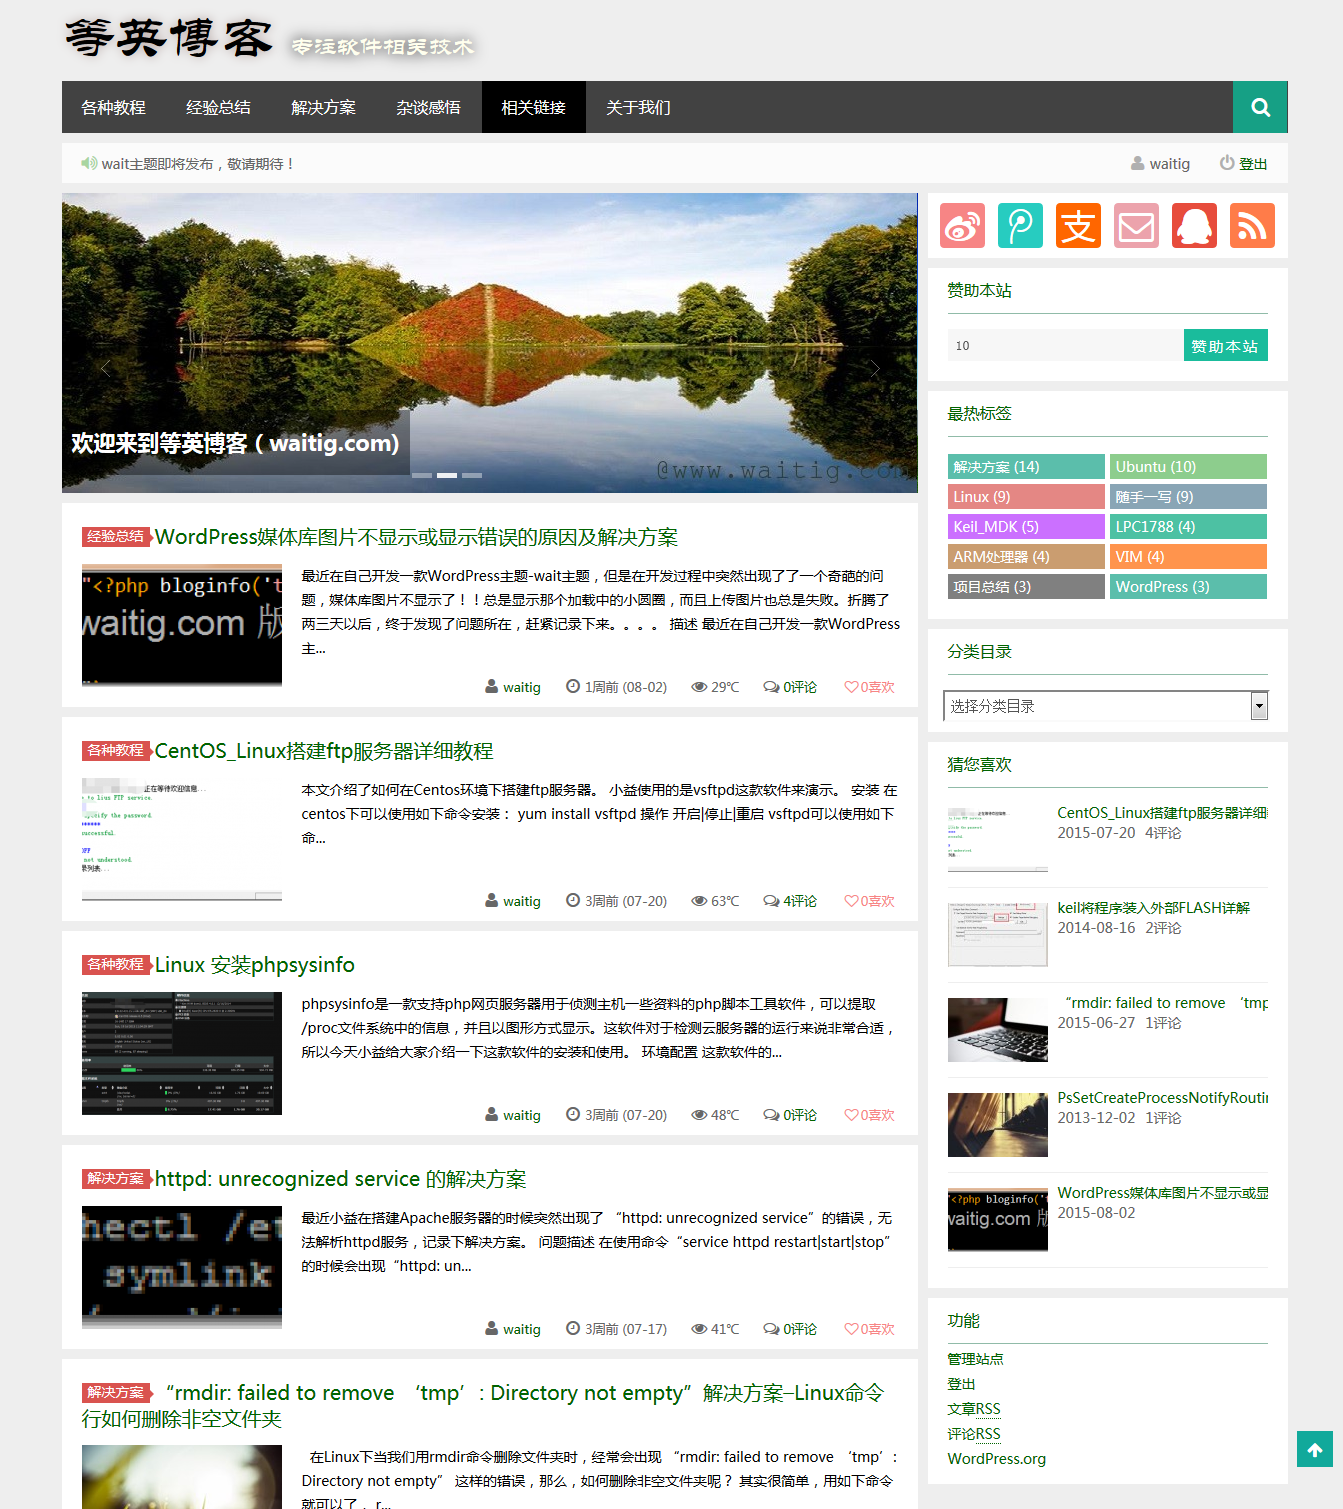
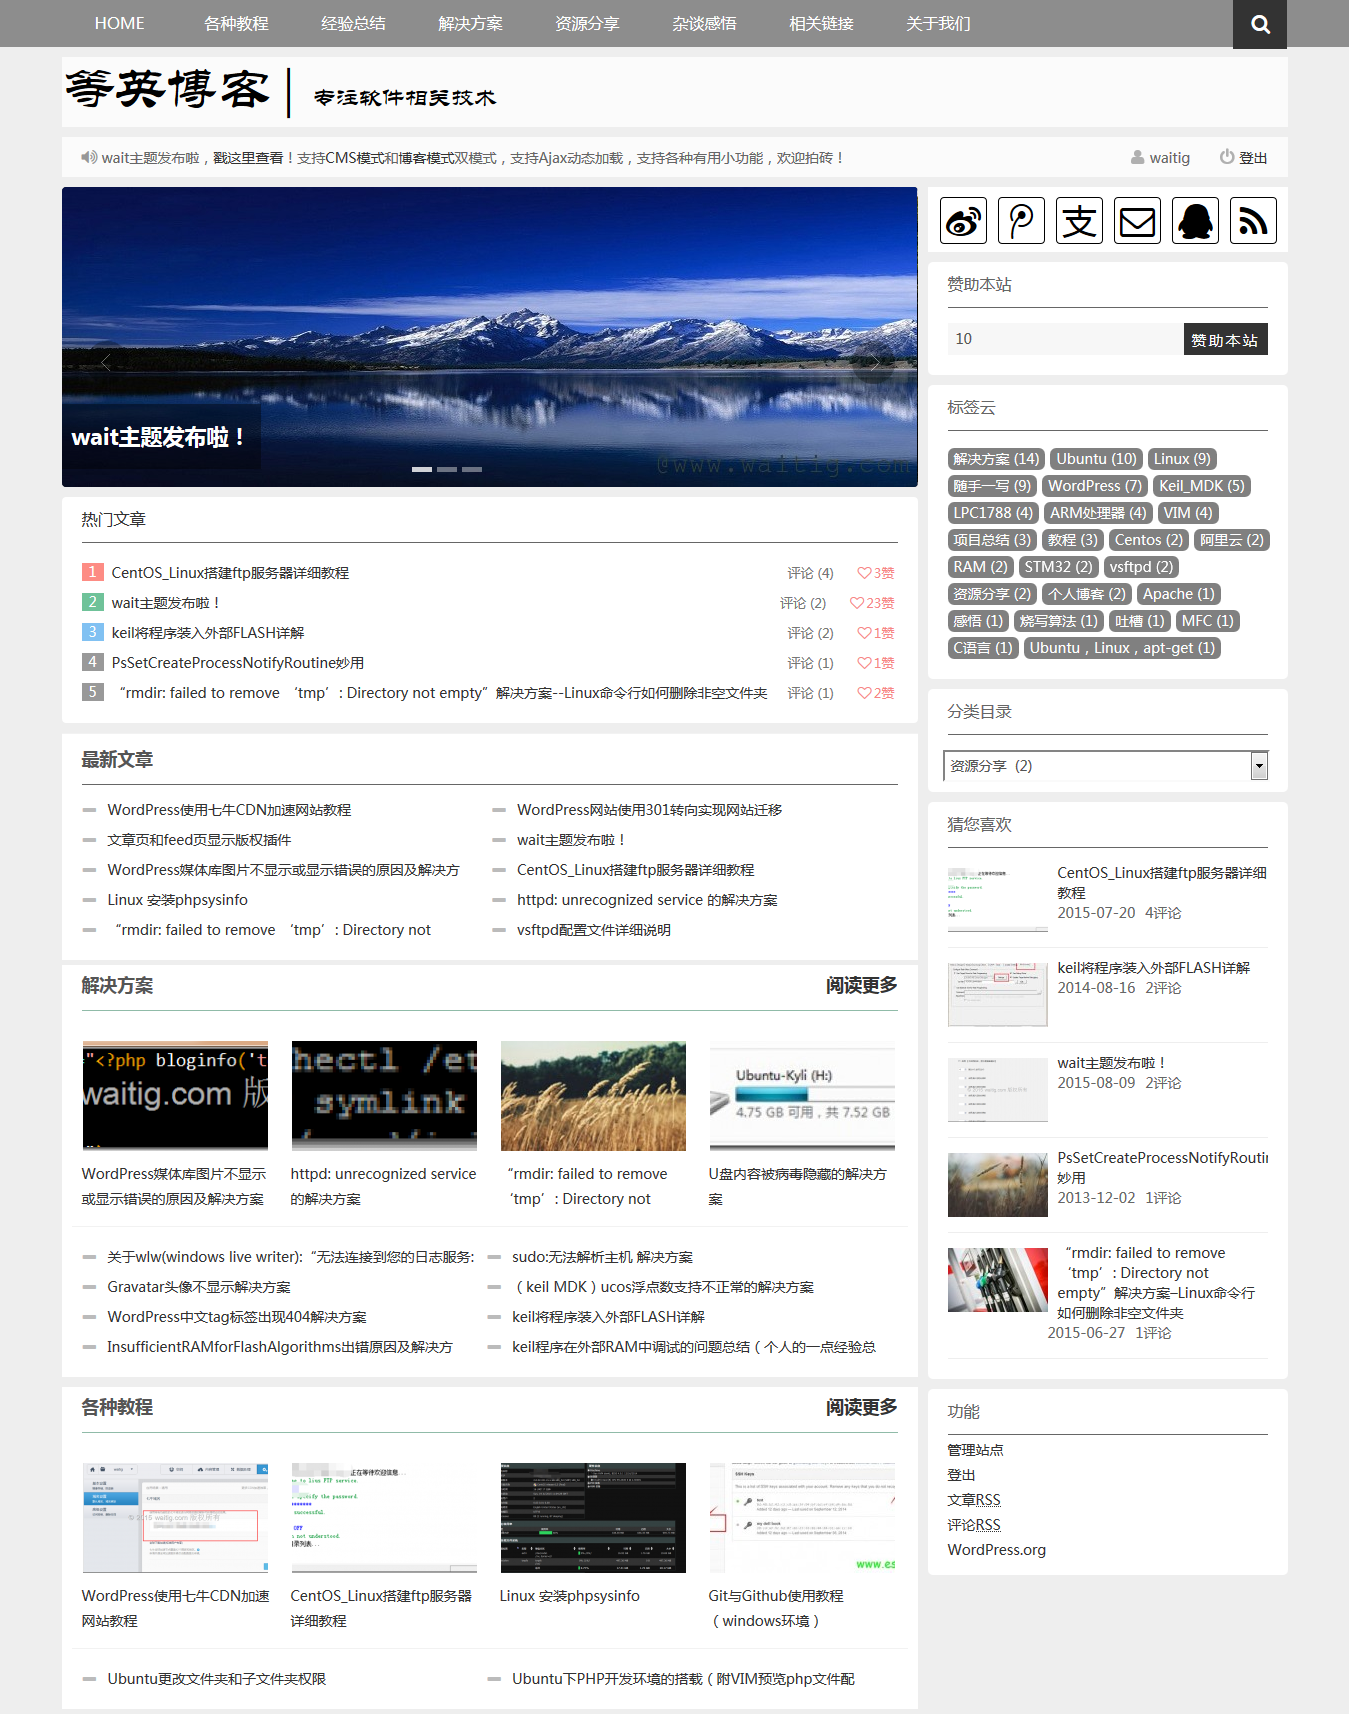
Version 2.0 实现极简主义风格和多彩风格双模式

diff --git a/functions.php b/functions.php
@@ -166,7 +166,9 @@ function footerScript() {
 				wp_enqueue_script( 'jquery' );
 				wp_register_script( 'default', get_template_directory_uri() . '/js/jquery.js', false, '1.0', waitig_gopt('d_jquerybom_b') ? true : false );   
 				wp_enqueue_script( 'default' );   
-				wp_register_style( 'style', get_template_directory_uri() . '/style.css',false,'1.0' );
+				if(waitig_gopt('waitig_colorful_en'))
+						wp_register_style( 'style', get_template_directory_uri() . '/colorful.css',false,'1.0' );
+				wp_register_style( 'style', get_template_directory_uri() . '/simple.css',false,'1.0' );
 				wp_enqueue_style( 'style' ); 
 		}  
 }  

diff --git a/admin/waitig-options.php b/admin/waitig-options.php
@@ -43,6 +43,12 @@ $options = array(
 				'std'	=>	''
 		),
 		array(
+				'name'	=>	'网站多彩风格',
+				'desc'	=>	'【开启】，默认为黑白简约风格，开启后将会变为多彩风格',
+				'id'	=>	'waitig_colorful_en',
+				'type'	=>	'checkbox'
+		),
+		array(
 				'name'	=>	'文章无图时不显示缩略图',
 				'desc'	=>	'注意：选择此项目可能导致文章显示错位',
 				'id'	=>	'waitig_thumbnail_un',

diff --git a/README.md b/README.md
@@ -15,3 +15,24 @@ wait主题来自于yusi主题，在其基础上进行了二次开发和很多完
 
 ##反馈
 欢迎大家提出宝贵的建议和意见，大家可以去<a href='http://www.waitig.com'>我的博客（waitig.com）</a>留言，我会在第一时间处理，谢谢大家的支持~~
+
+#更新日志
+##1.0版
+主题编码完成，基本功能实现。
+##1.1版
+无插件实现文章页显示百度收录功能。
+修复已知BUG，优化代码。
+##1.2
+加入本地化生成文章链接二维码功能，无需联外部网站即可生成。
+修复一些bug。
+##1.3
+加入CMS模式，优化代码
+##1.4
+加入CMS模块自定义文章数量功能
+##1.5
+加入CMS模式展示页面，可在【新建页面】-》【页面模板】中找到选项
+##1.6
+修改导航栏样式，加入自定义颜色和透明度功能，加入导航栏随动功能。
+##2.0
+加入黑白极简主义风格模板，用户可自行选择使用极简风格或者多彩风格.
+修复已知BUG。
